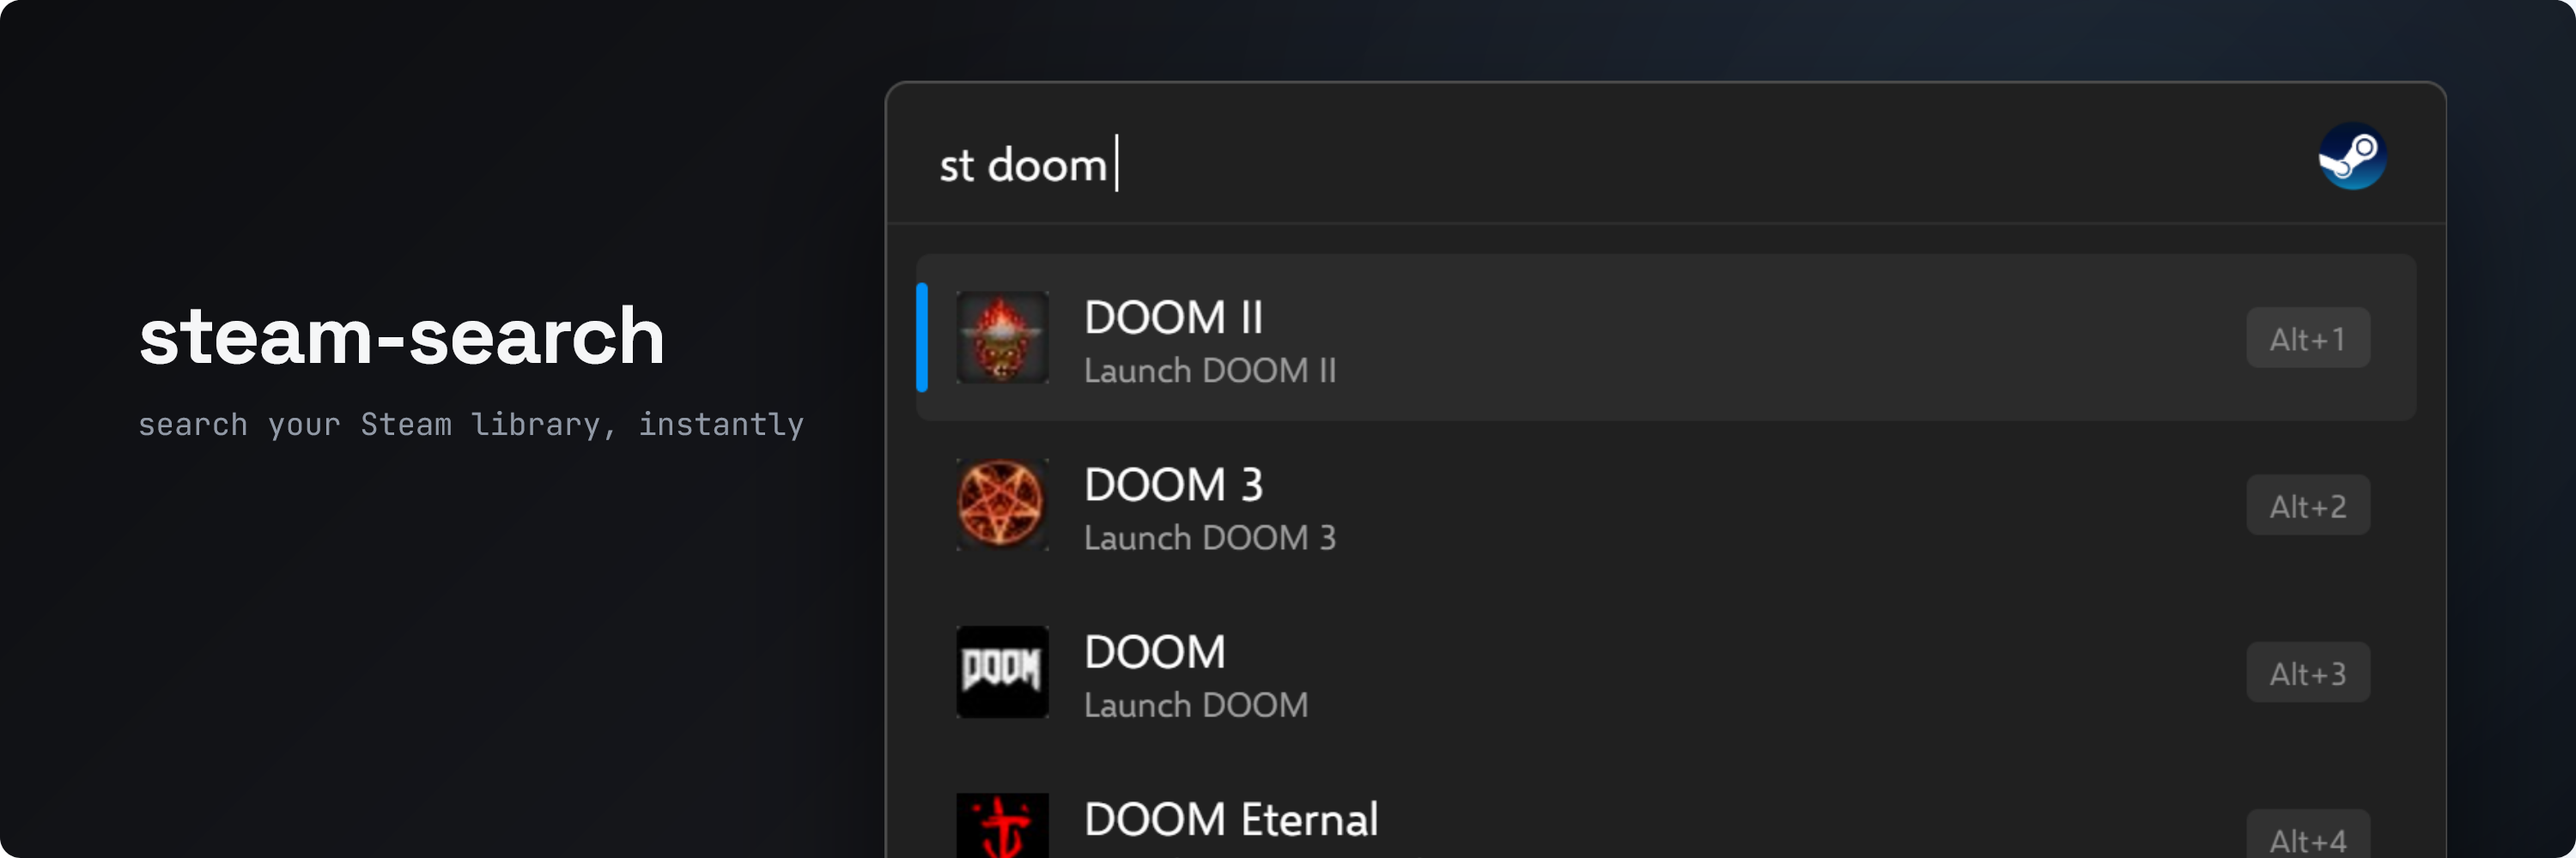
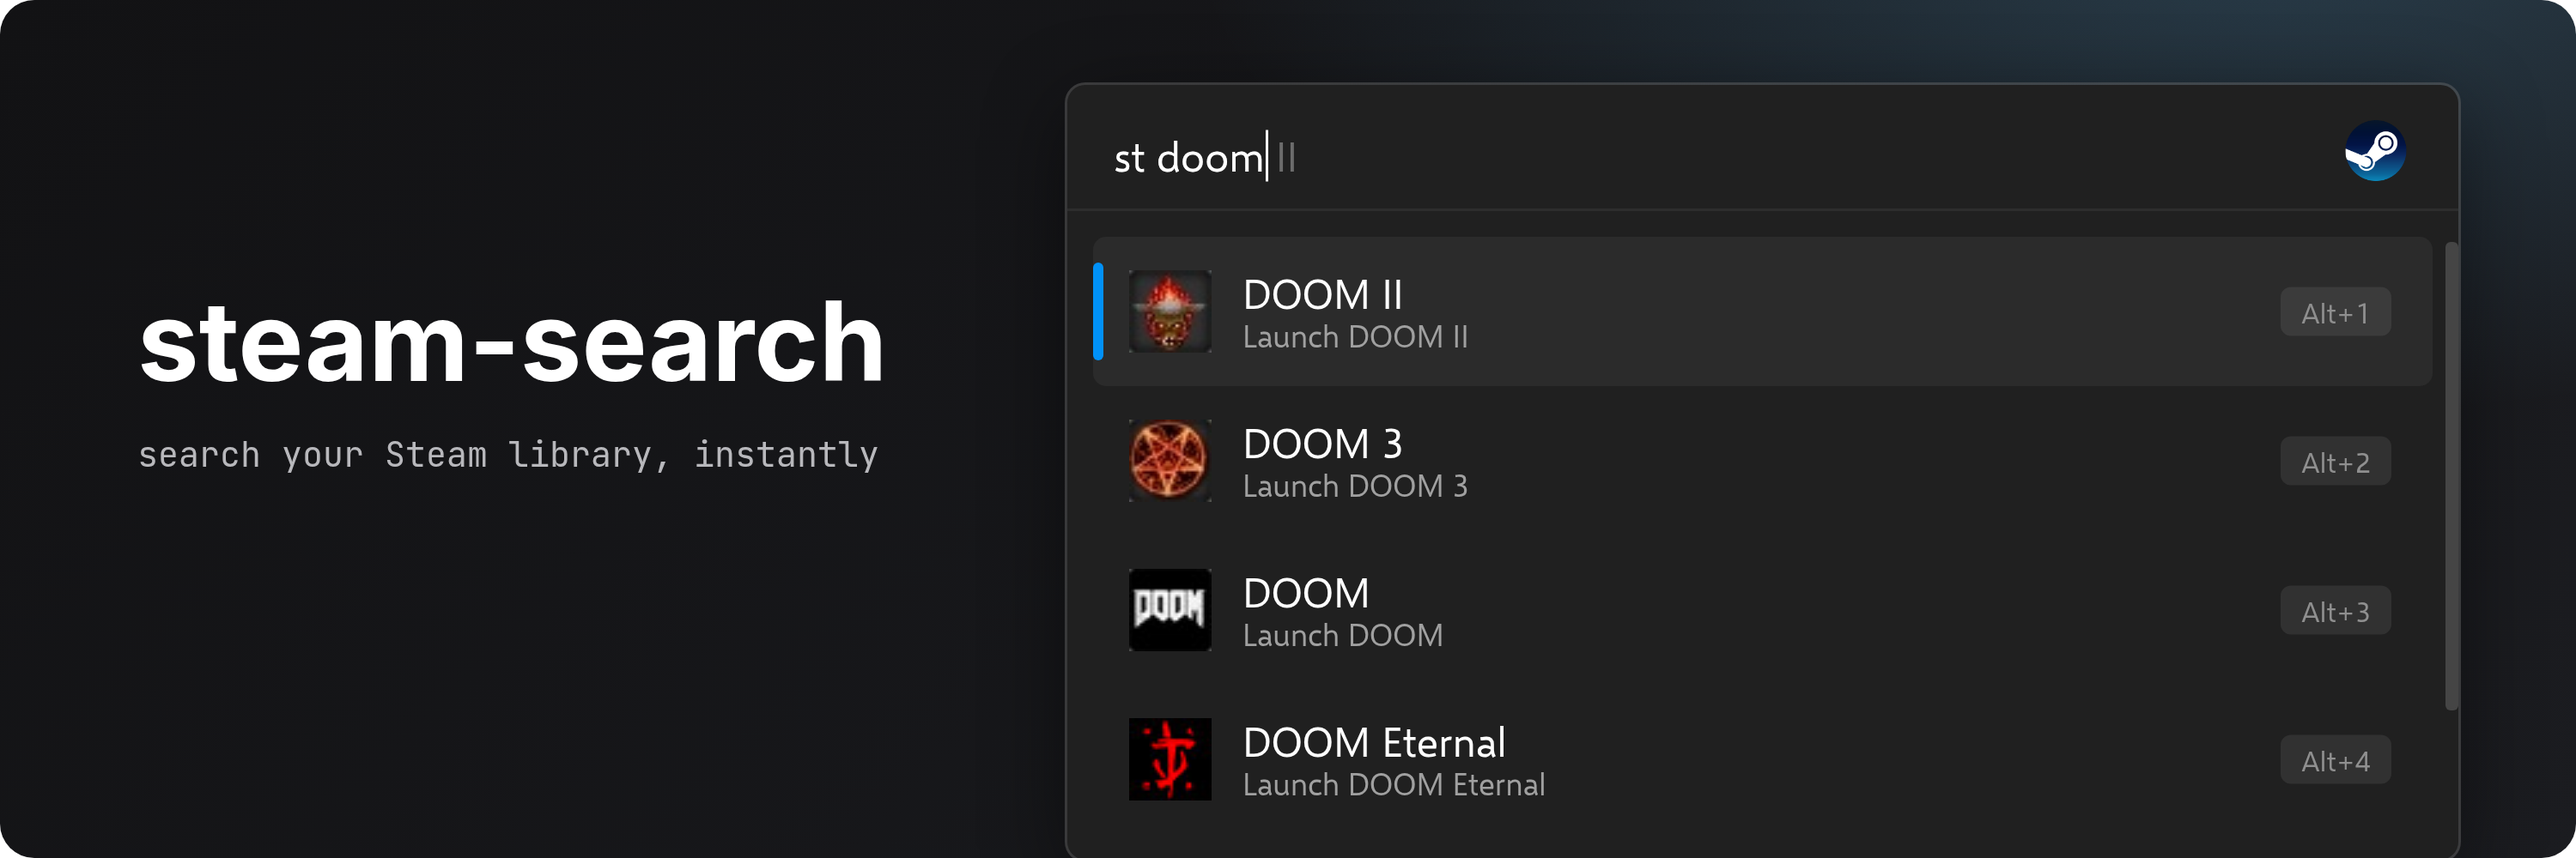
docs: render light and dark screenshots and point the CI badge at tests.yml

diff --git a/README.md b/README.md
@@ -5,7 +5,7 @@
 
 The fastest way to launch your Steam games. Fully local, and instant.
 
-[![CI](https://img.shields.io/github/actions/workflow/status/Garulf/Steam-Search/release.yml)](https://github.com/Garulf/Steam-Search/actions/workflows/release.yml) [![Release](https://img.shields.io/github/v/release/Garulf/Steam-Search)](https://github.com/Garulf/Steam-Search/releases/latest) [![License](https://img.shields.io/github/license/Garulf/Steam-Search)](https://github.com/Garulf/Steam-Search/blob/main/LICENSE)
+[![CI](https://img.shields.io/github/actions/workflow/status/Garulf/Steam-Search/tests.yml)](https://github.com/Garulf/Steam-Search/actions/workflows/tests.yml) [![Release](https://img.shields.io/github/v/release/Garulf/Steam-Search)](https://github.com/Garulf/Steam-Search/releases/latest) [![License](https://img.shields.io/github/license/Garulf/Steam-Search)](https://github.com/Garulf/Steam-Search/blob/main/LICENSE)
 
 [![Buy Me a Coffee](https://img.shields.io/badge/Buy%20Me%20a%20Coffee-support-FFDD00?logo=buy-me-a-coffee)](https://www.buymeacoffee.com/garulf) [![Sponsor](https://img.shields.io/github/sponsors/Garulf?logo=githubsponsors)](https://github.com/sponsors/Garulf)
 
@@ -27,7 +27,7 @@ Type `st` followed by a game name:
 st doom
 ```
 
-![Steam Search results in Flow Launcher](.github/assets/screenshot.png)
+![Steam Search results in Flow Launcher](.github/assets/search-light.png#gh-light-mode-only)![Steam Search results in Flow Launcher](.github/assets/search-dark.png#gh-dark-mode-only)
 
 ## Installation
 
@@ -39,11 +39,11 @@ In Flow Launcher, type:
 pm install steam search
 ```
 
-![Flow Launcher plugin manager installing Steam Search](.github/assets/install.png)
+![Flow Launcher plugin manager installing Steam Search](.github/assets/install-light.png#gh-light-mode-only)![Flow Launcher plugin manager installing Steam Search](.github/assets/install-dark.png#gh-dark-mode-only)
 
 ### Manual installation
 
-Download `Steam-Search.zip` from the [latest release](https://github.com/Garulf/Steam-Search/releases/latest) and unzip it into
+Download `Steam-Search-<version>.zip` from the [latest release](https://github.com/Garulf/Steam-Search/releases/latest) and unzip it into
 `%appdata%\FlowLauncher\Plugins`, then restart Flow Launcher.
 
 ## Changelog
